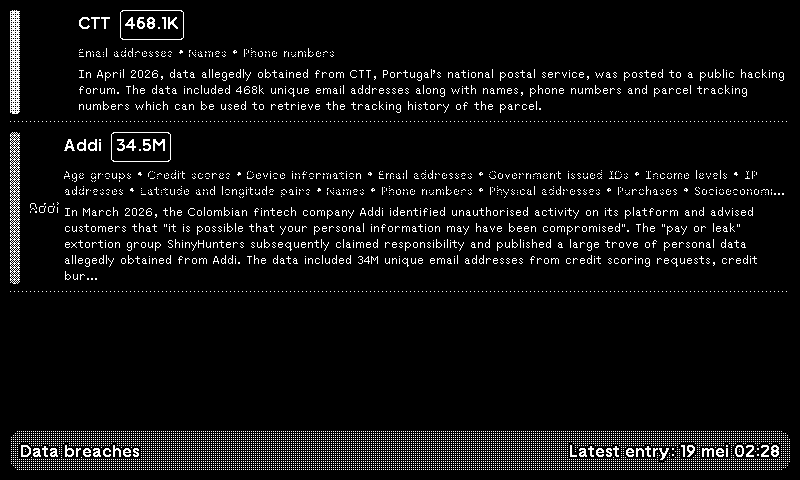
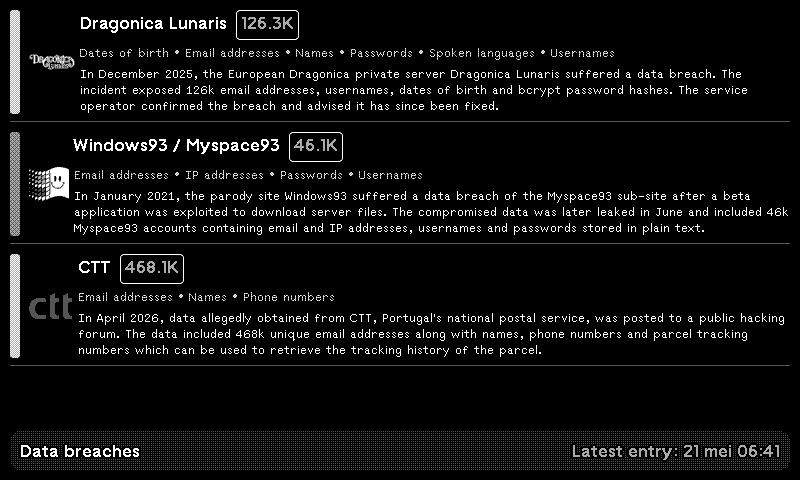
📊 Update plugin statistics in README

diff --git a/README.md b/README.md
@@ -3,7 +3,7 @@
 <!-- PLUGIN_STATS_START -->
 ## 🚀 TRMNL Plugin(s)
 
-*Last updated: 2026-05-20 09:40:20 UTC*
+*Last updated: 2026-05-21 09:48:27 UTC*
 
 
 ## <img src="assets/plugin-images/183668_icon.png" alt="Data Breaches icon" width="32"/> [Data Breaches](https://usetrmnl.com/recipes/183668)
@@ -17,7 +17,7 @@ Keep up to date with the latest data breaches using <a href='https://haveibeenpw
 
 | Metric | Value |
 |--------|-------|
-| Installs | 49 |
+| Installs | 50 |
 | Forks | 3 |
 
 ---